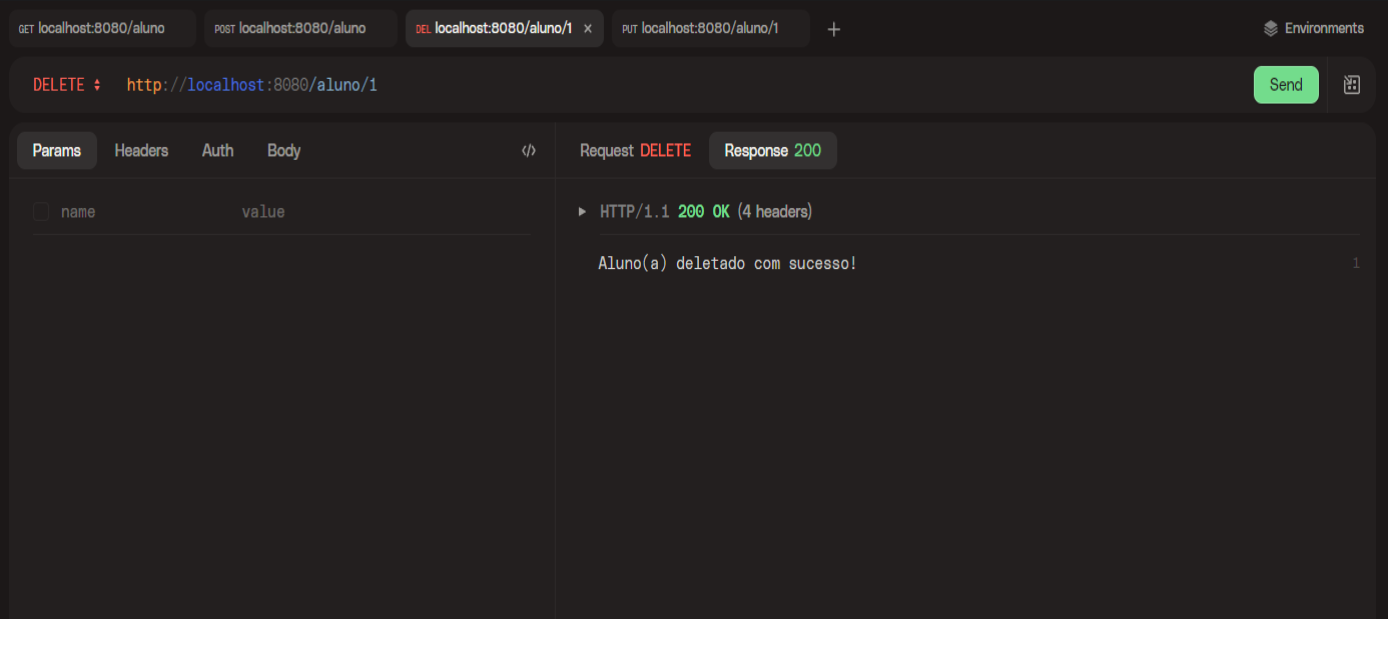
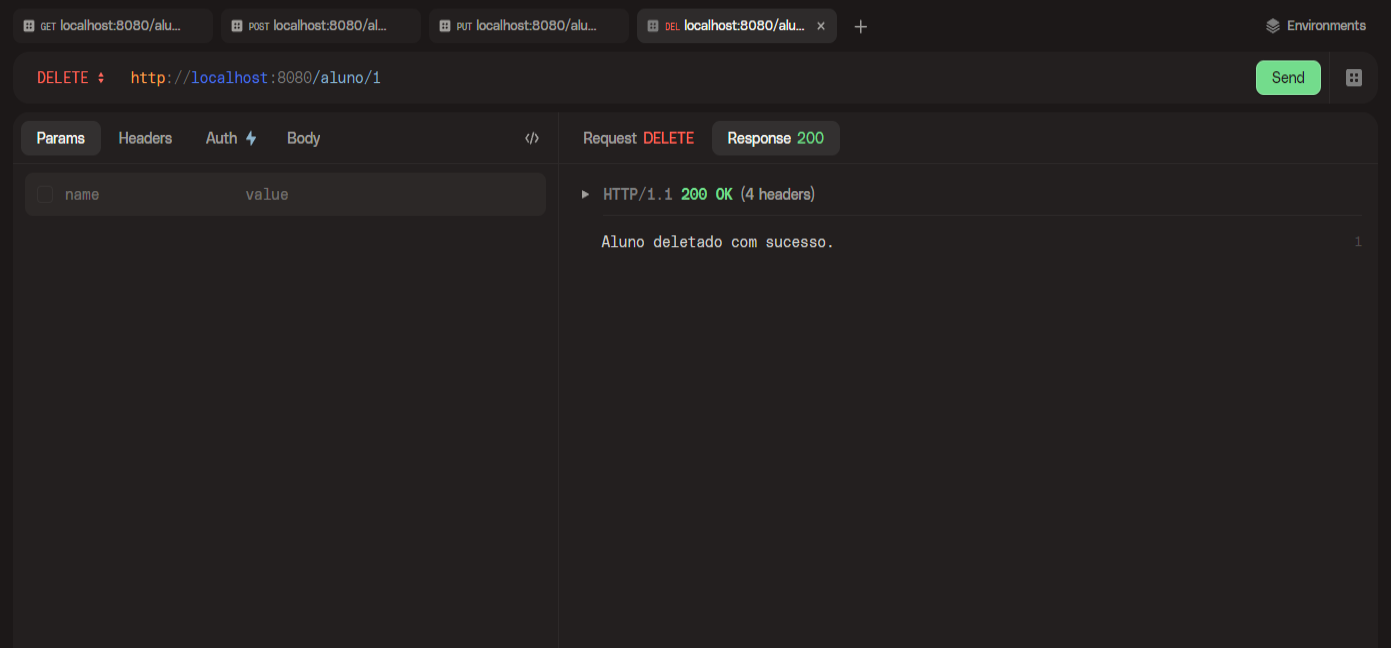
últimos detalhes

diff --git a/src/main/java/br/com/schoolsystem/controller/AlunoController.java b/src/main/java/br/com/schoolsystem/controller/AlunoController.java
@@ -89,14 +89,22 @@ public class AlunoController {
 			
 			// salva o aluno atualizado no bd
 			service.atualizarAluno(aluno);
+			return ResponseEntity.status(HttpStatus.OK).body(aluno);
+		} else {
+			return ResponseEntity.status(HttpStatus.NO_CONTENT).build();
 		}
 		
-		return ResponseEntity.status(HttpStatus.NO_CONTENT).build();
+		
 	}
 	
 	@DeleteMapping("/{id}")
-	public ResponseEntity deletarAlunoPorId(@PathVariable Long id) {
+	public ResponseEntity<String> deletarAlunoPorId(@PathVariable Long id) {
+		Optional<AlunoModel> alunoOptional = service.encontrarUmAlunoPorId(id);
+		
+		if(!alunoOptional.isPresent()) {
+			return ResponseEntity.status(HttpStatus.NOT_FOUND).body("Aluno não encontrado!");
+		}
 		service.deletarAlunoPorId(id);
-		return ResponseEntity.noContent().build();
+		return ResponseEntity.status(HttpStatus.OK).body("Aluno deletado com sucesso.");
 	}
 }

diff --git a/src/main/java/br/com/schoolsystem/dto/DadosAluno.java b/src/main/java/br/com/schoolsystem/dto/DadosAluno.java
@@ -3,6 +3,7 @@ package br.com.schoolsystem.dto;
 import br.com.schoolsystem.enums.Curso;
 import br.com.schoolsystem.model.Endereco;
 
+
 public record DadosAluno(String nome, String email, String cpf, Curso curso, String telefone, Endereco endereco) {
 
 }

diff --git a/src/main/java/br/com/schoolsystem/model/AlunoModel.java b/src/main/java/br/com/schoolsystem/model/AlunoModel.java
@@ -19,7 +19,7 @@ import lombok.Data;
 import lombok.NoArgsConstructor;
 
 @Entity
-@Data // Utiliza os getters e setters
+@Data
 @NoArgsConstructor
 @AllArgsConstructor
 @Table(name = "alunos")

diff --git a/Readme.md b/Readme.md
@@ -48,6 +48,10 @@ E por último iremos deletar nosso aluno do banco de dados através do DELETE:
 
 ![Deletando o aluno](./img/delete.png)
 
+Caso o aluno não seja encontrado no DELETE, será retornada uma mensagem:
+
+![Deletando o aluno](./img/deleteNãoEncontrado.png)
+
 E o arquivo UML do projeto:
 
 ![Arquivo UML](./img/School_System_UML.png)
